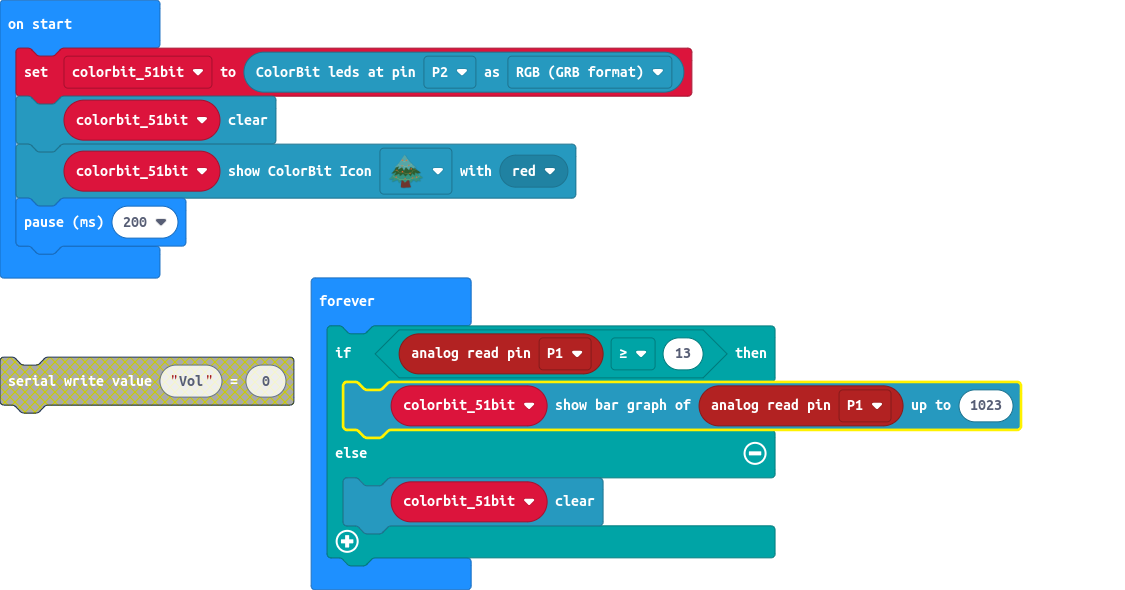
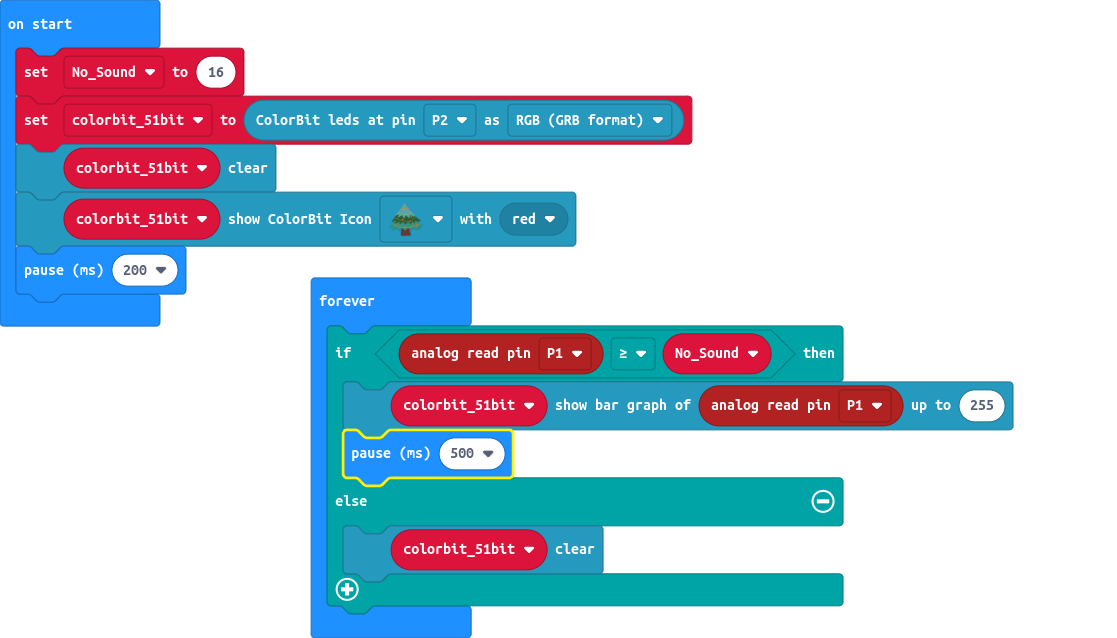
define variable for no sound and pause display

diff --git a/main.ts b/main.ts
@@ -1,10 +1,12 @@
+let No_Sound = 16
 let colorbit_51bit = colorbit.initColorBit(DigitalPin.P2, BitColorMode.RGB)
 colorbit_51bit.clear()
 colorbit_51bit.showColorIcon(ColorIcon.ChristmasTree, colorbit.colors(BitColors.Red))
 basic.pause(200)
 basic.forever(function () {
-    if (pins.analogReadPin(AnalogPin.P1) >= 13) {
-        colorbit_51bit.showBarGraph(pins.analogReadPin(AnalogPin.P1), 1023)
+    if (pins.analogReadPin(AnalogPin.P1) >= No_Sound) {
+        colorbit_51bit.showBarGraph(pins.analogReadPin(AnalogPin.P1), 255)
+        basic.pause(500)
     } else {
         colorbit_51bit.clear()
     }
